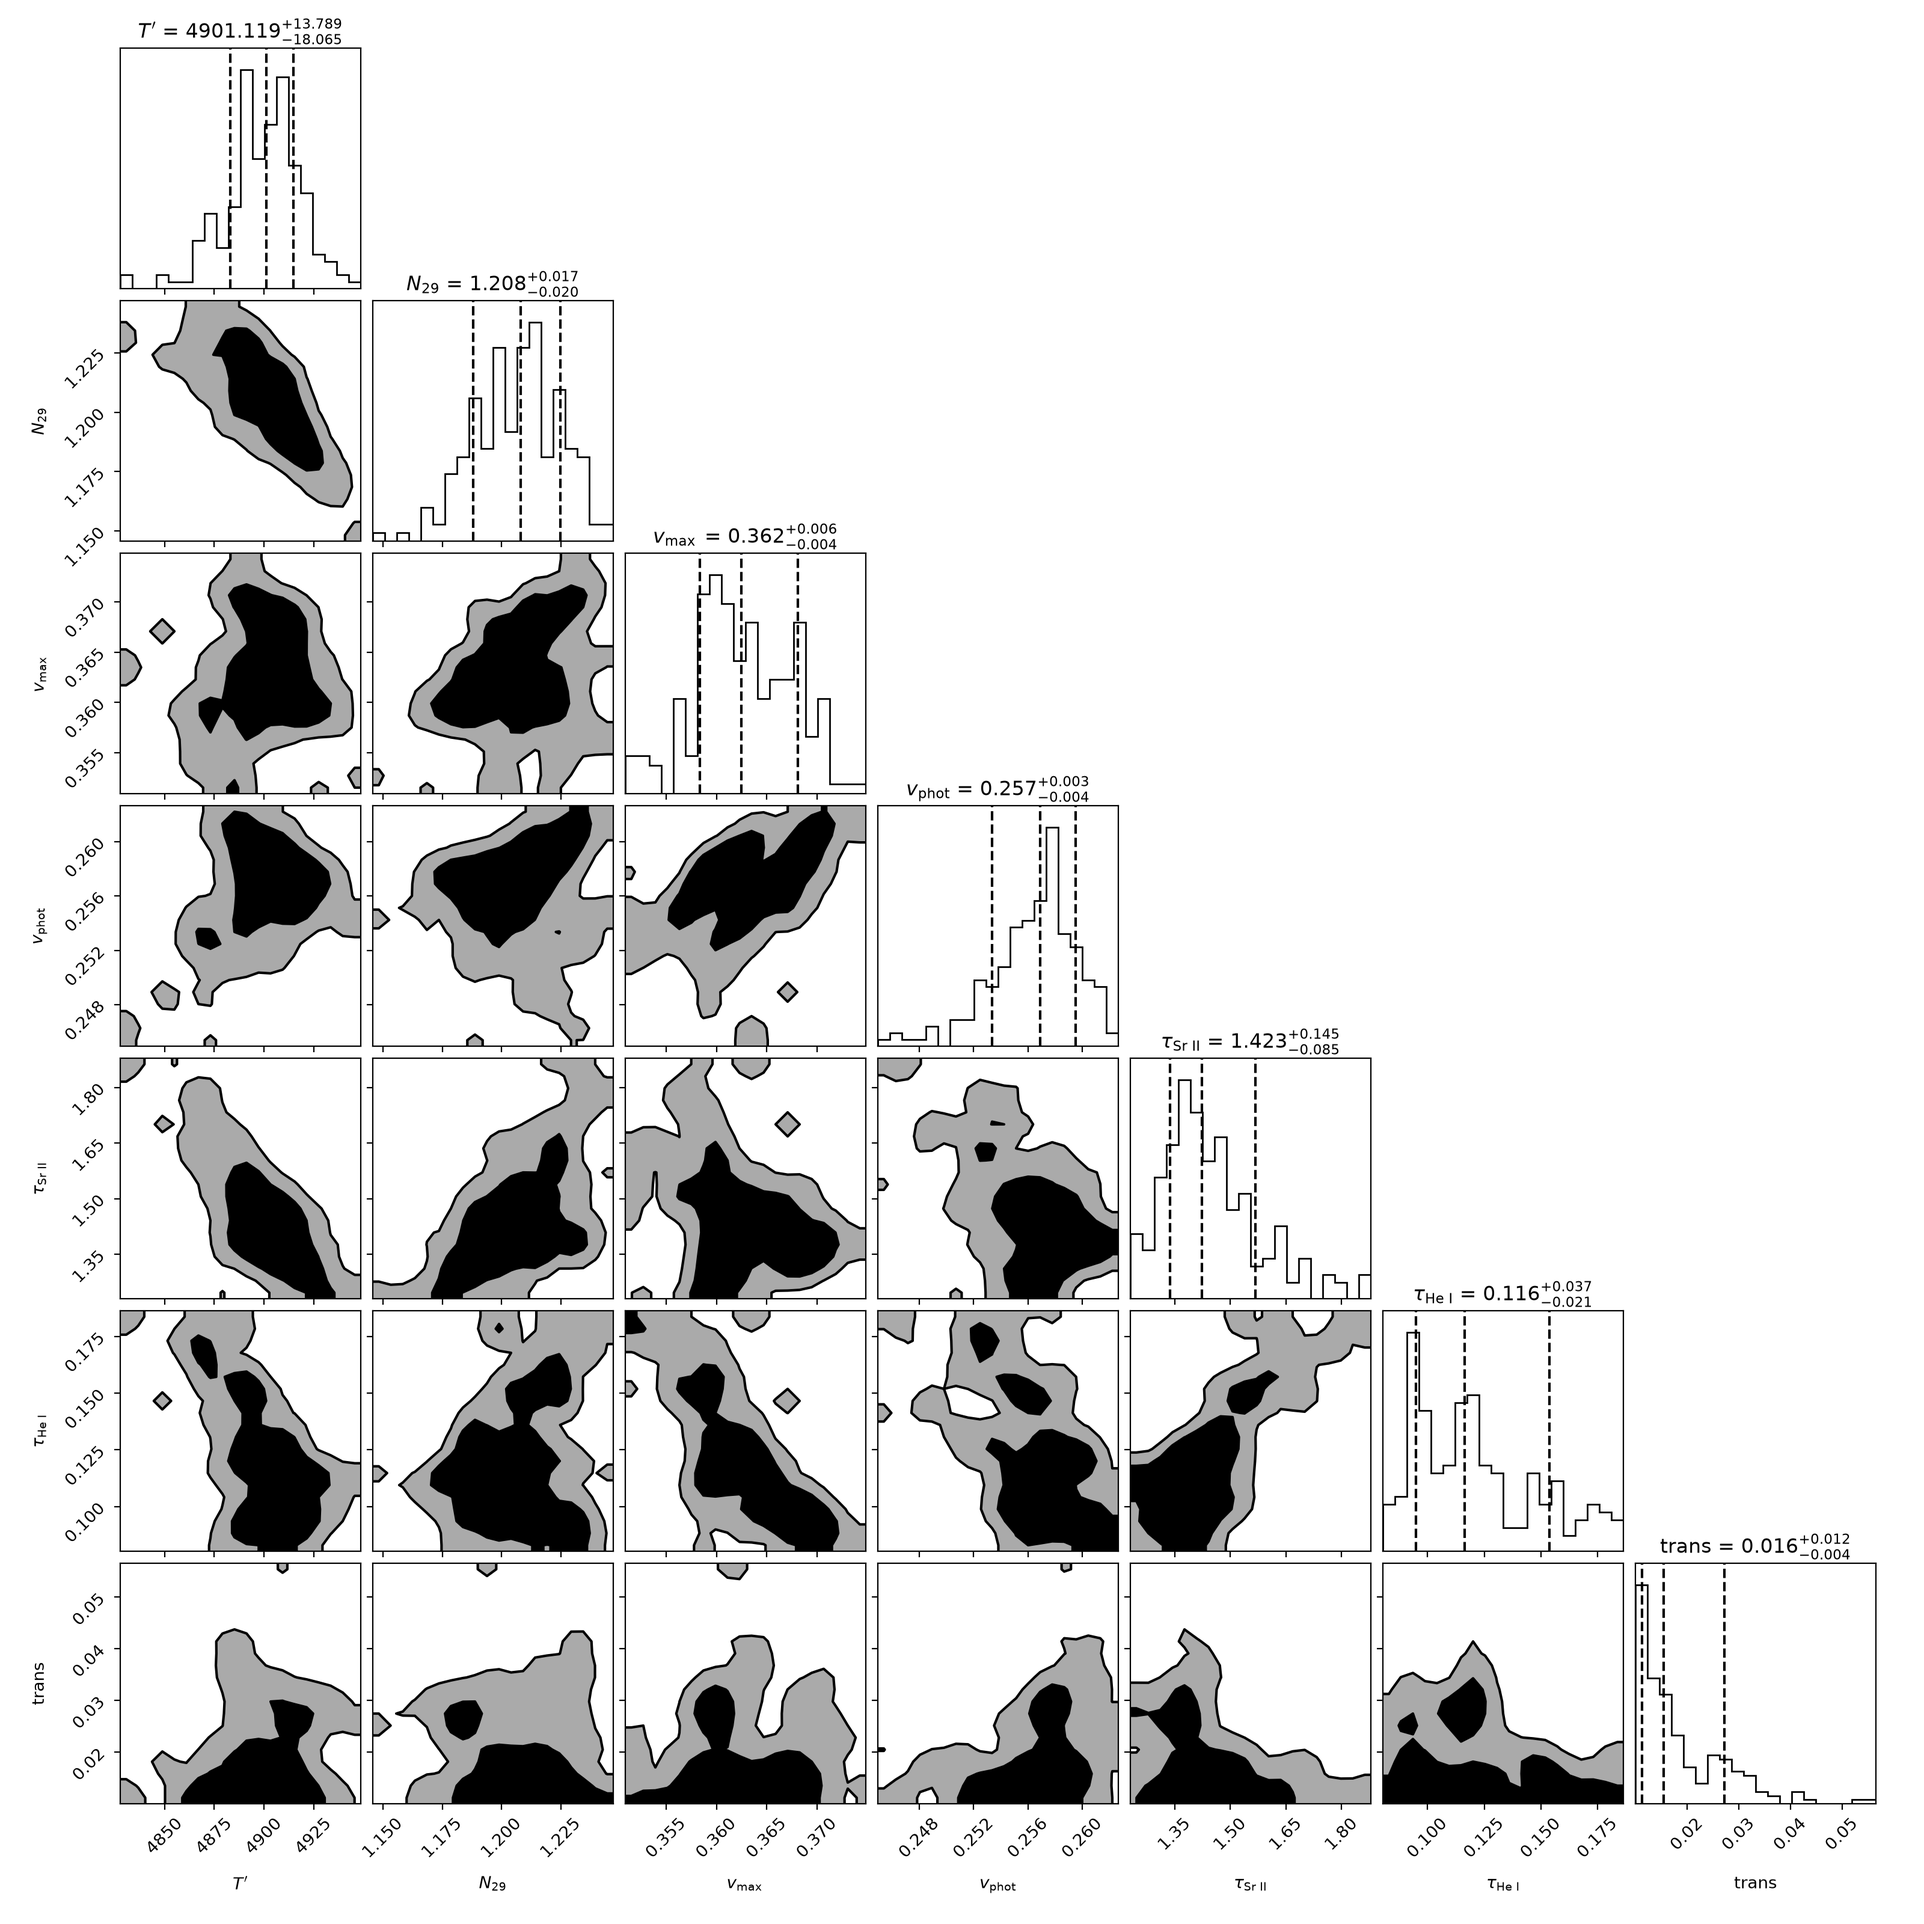
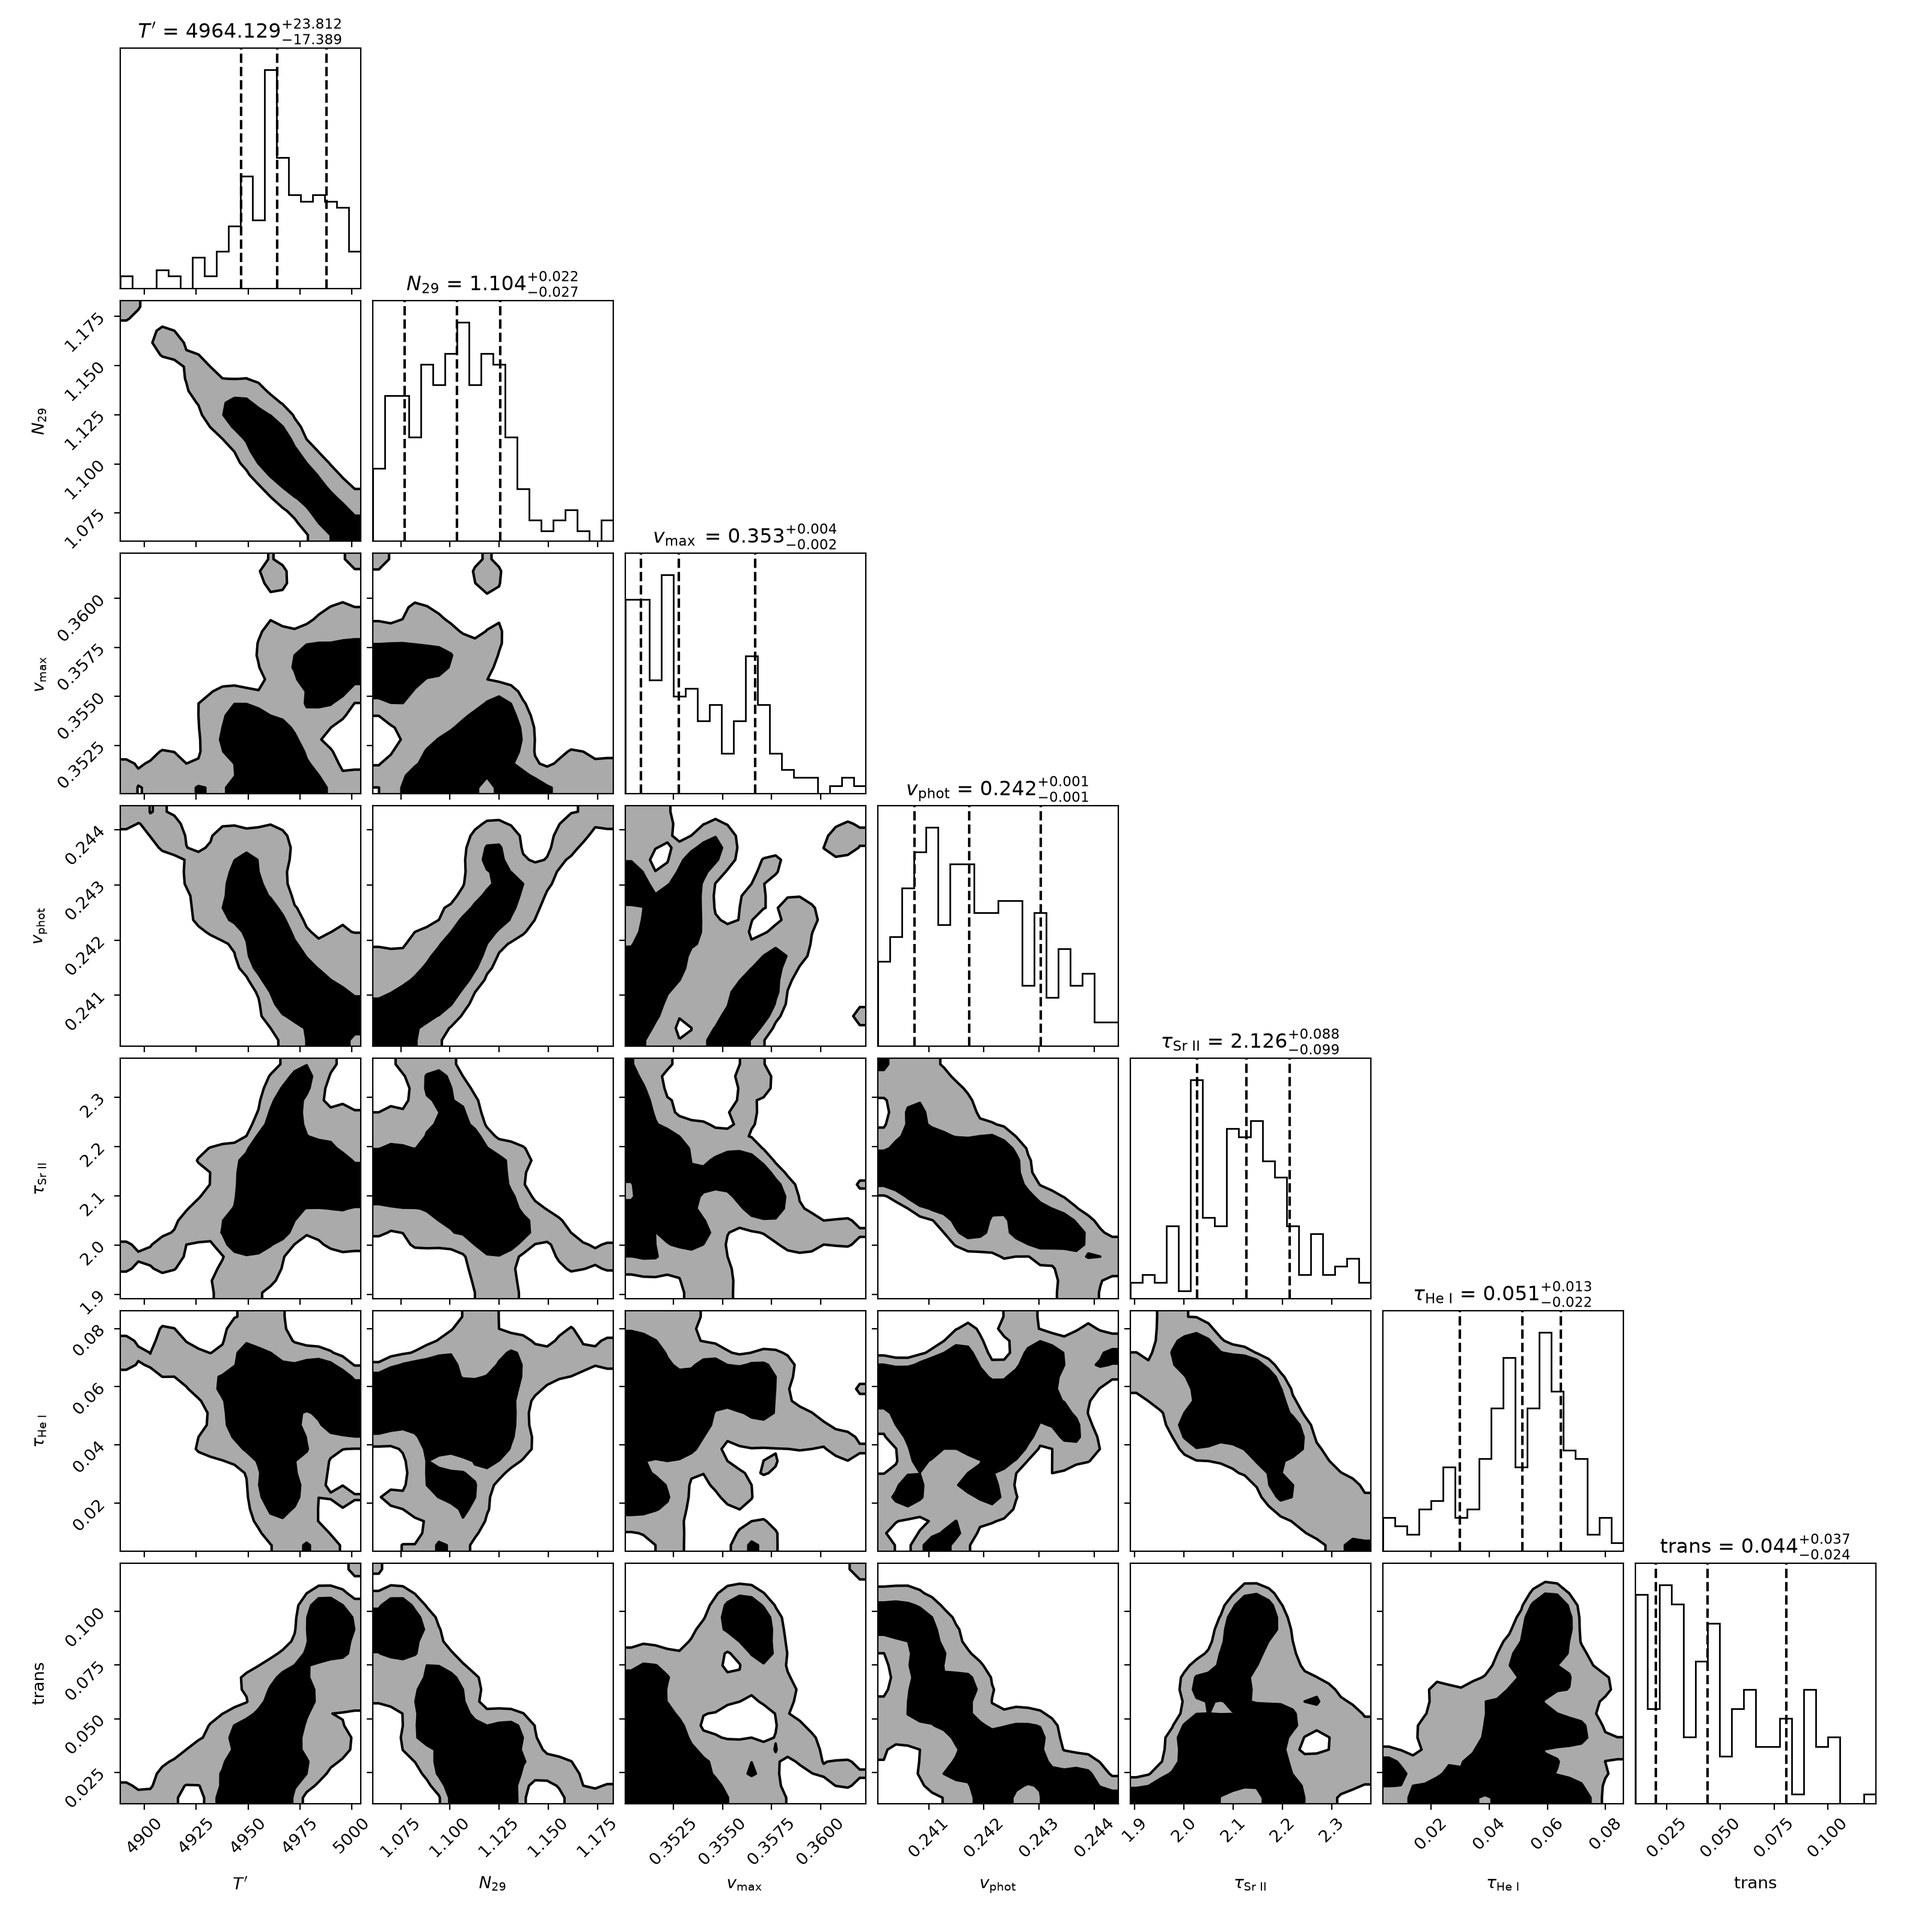
Fix parameter railing and relax hard-step priors

diff --git a/scripts/run_mcmc_fit.py b/scripts/run_mcmc_fit.py
@@ -68,7 +68,7 @@ def load_data(url, local_filename="temp_spectrum.dat"):
                 (~((wave > 13100) & (wave < 14400)))
                 & (~((wave > 17550) & (wave < 19200)))
                 & (~((wave > 5330) & (wave < 5740)))
-                & (~((wave > 9800) & (wave < 10400)))
+                & (~((wave > 9950) & (wave < 10250)))
                 & (wave >= 3800)
                 & (wave <= 21500)
             )
@@ -107,7 +107,7 @@ def load_data(url, local_filename="temp_spectrum.dat"):
         (~((wave > 13100) & (wave < 14400)))
         & (~((wave > 17550) & (wave < 19200)))
         & (~((wave > 5330) & (wave < 5740)))
-        & (~((wave > 9800) & (wave < 10400)))
+        & (~((wave > 9950) & (wave < 10250)))
         & (wave >= 3800)
         & (wave <= 21500)
     )
@@ -126,7 +126,7 @@ def main():
             "local_file": os.path.join(target_save_dir, "OB1_1.43d.dat"),
             "bounds": [
                 (4200.0, 6000.0), (0.80, 1.80), (0.35, 0.50), (0.24, 0.35),
-                (1.0, 3.0), (0.0, 0.30), (0.01, 1.2)
+                (1.0, 3.0), (0.0, 0.30), (0.01, 0.30)
             ],
             "init_guess": [4900.0, 1.30, 0.40, 0.27, 2.00, 0.05, 0.15],
         },
@@ -136,10 +136,10 @@ def main():
             "url": "https://sid.erda.dk/share_redirect/df1fMhon6Z/dereddened%2Bderedshifted_spectra/AT2017gfo_ENGRAVE_v1.0_XSHOOTER_MJD-57984.969_Phase%2B2.42d_deredz.dat",
             "local_file": os.path.join(target_save_dir, "OB2_2.42d.dat"),
             "bounds": [
-                (2900.0, 4000.0), (1.50, 3.20), (0.25, 0.42), (0.16, 0.29),
-                (0.1, 3.0), (0.0, 1.50), (0.05, 1.2)
+                (3100.0, 3800.0), (1.50, 3.20), (0.25, 0.42), (0.16, 0.29),
+                (0.7, 2.0), (0.05, 0.40), (0.35, 0.65)
             ],
-            "init_guess": [3500.0, 2.10, 0.33, 0.21, 1.50, 0.30, 0.45],
+            "init_guess": [3450.0, 2.20, 0.33, 0.21, 1.20, 0.20, 0.45],
         },
         {
             "label": "Phase +3.41d (OB3)",
@@ -147,10 +147,10 @@ def main():
             "url": "https://sid.erda.dk/share_redirect/df1fMhon6Z/dereddened%2Bderedshifted_spectra/AT2017gfo_ENGRAVE_v1.0_XSHOOTER_MJD-57985.974_Phase%2B3.41d_deredz.dat",
             "local_file": os.path.join(target_save_dir, "OB3_3.41d.dat"),
             "bounds": [
-                (2500.0, 3680.0), (1.0, 5.0), (0.18, 0.37), (0.10, 0.25),
-                (0.1, 2.5), (0.0, 3.0), (0.05, 1.2)
+                (2700.0, 3300.0), (1.0, 5.0), (0.18, 0.37), (0.13, 0.20),
+                (0.4, 1.3), (0.2, 0.9), (0.35, 0.65)
             ],
-            "init_guess": [2950.0, 2.80, 0.25, 0.14, 0.80, 0.60, 0.30],
+            "init_guess": [2950.0, 2.90, 0.25, 0.16, 0.85, 0.50, 0.48],
         },
         {
             "label": "Phase +4.40d (OB4)",
@@ -158,10 +158,10 @@ def main():
             "url": "https://sid.erda.dk/share_redirect/df1fMhon6Z/dereddened%2Bderedshifted_spectra/AT2017gfo_ENGRAVE_v1.0_XSHOOTER_MJD-57986.974_Phase%2B4.40d_deredz.dat",
             "local_file": os.path.join(target_save_dir, "OB4_4.40d.dat"),
             "bounds": [
-                (2200.0, 3300.0), (2.00, 4.50), (0.15, 0.30), (0.07, 0.14),
-                (0.05, 2.0), (0.1, 3.0), (0.05, 1.2)
+                (2400.0, 2900.0), (2.00, 4.50), (0.15, 0.30), (0.10, 0.16),
+                (0.2, 0.9), (0.5, 1.8), (0.35, 0.65)
             ],
-            "init_guess": [2650.0, 3.60, 0.22, 0.10, 0.50, 1.20, 0.45],
+            "init_guess": [2650.0, 3.40, 0.21, 0.13, 0.50, 1.00, 0.50],
         },
     ]
 
@@ -290,7 +290,7 @@ def main():
 
     masked_regions = [
         (5330, 5740, "Telluric/Noise"),
-        (9800, 10400, "Telluric/Noise"),
+        (9950, 10250, "Telluric/Noise"),
         (13100, 14400, "Telluric Band"),
         (17550, 19200, "Telluric Band"),
     ]

diff --git a/tests/test_radiation_engine.py b/tests/test_radiation_engine.py
@@ -110,15 +110,12 @@ def test_mcmc_probability_wrapper_priors():
     invalid_theta_tau_sr_low_day2 = [5000.0, 1.0, 0.3, 0.2, 0.4, 0.5, 0.8] # tau_sr < tau_he
     assert wrapper_day2.log_prior(invalid_theta_tau_sr_low_day2) == -np.inf
 
-    # Check new temporal constraints (days < 4.0: tau_sr <= 1.2)
+    # The late-phase constraints (tau_sr <= 1.2, vphot <= 0.14) were removed to prevent boundary railing.
+    # We test that the log_prior correctly returns 0.0 for parameters that previously failed these checks.
     wrapper_late = MCMCProbabilityWrapper(x_fit, y_fit, err_fit, time_s, bounds, days=3.5)
-    valid_theta_late = [5000.0, 1.0, 0.3, 0.2, 1.0, 0.5, 0.8] # tau_sr <= 1.2
-    assert wrapper_late.log_prior(valid_theta_late) == 0.0
+    valid_theta_late_tau_sr = [5000.0, 1.0, 0.3, 0.2, 1.5, 0.5, 0.8] # tau_sr > 1.2 (now allowed)
+    assert wrapper_late.log_prior(valid_theta_late_tau_sr) == 0.0
 
-    invalid_theta_late_tau_sr = [5000.0, 1.0, 0.3, 0.2, 1.5, 0.5, 0.8] # tau_sr > 1.2
-    assert wrapper_late.log_prior(invalid_theta_late_tau_sr) == -np.inf
-
-    # Check Day 4 constraint (vphot <= 0.14)
     wrapper_day4 = MCMCProbabilityWrapper(x_fit, y_fit, err_fit, time_s, bounds, days=4.4)
-    invalid_theta_day4_vphot = [5000.0, 1.0, 0.3, 0.15, 1.0, 0.5, 0.8] # vphot > 0.14
-    assert wrapper_day4.log_prior(invalid_theta_day4_vphot) == -np.inf
+    valid_theta_day4_vphot = [5000.0, 1.0, 0.3, 0.15, 1.0, 0.5, 0.8] # vphot > 0.14 (now allowed)
+    assert wrapper_day4.log_prior(valid_theta_day4_vphot) == 0.0

diff --git a/src/probability.py b/src/probability.py
@@ -34,14 +34,6 @@ class MCMCProbabilityWrapper(object):
             # Phase +2.42d: Sr II가 He I보다 여전히 우세해야 함
             if tau_sr < tau_he:
                 return -np.inf
-        elif self.days < 4.0:
-            # Phase +3.41d: Day 2보다 tau_sr이 폭증(1.68)하는 역주행 차단
-            if tau_sr > 1.2:
-                return -np.inf
-        else:
-            # Phase +4.40d: 광구 감속 조건 강제 (Day 3보다 빨라지는 비물리적 해 배제)
-            if vphot > 0.14:
-                return -np.inf
 
         return 0.0
 
